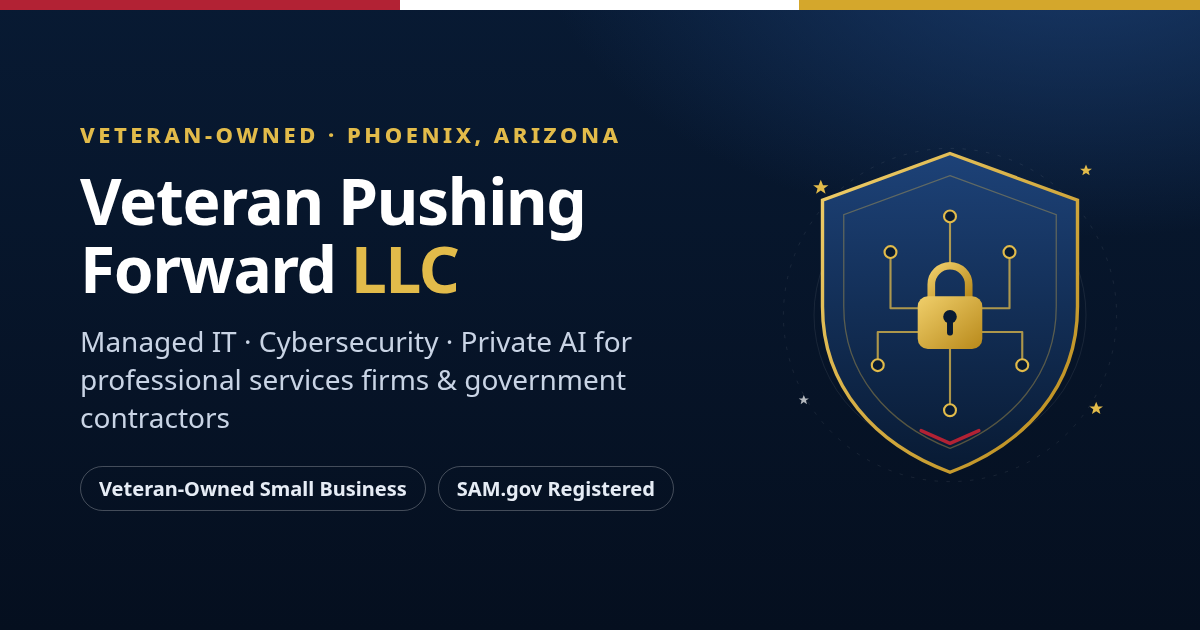
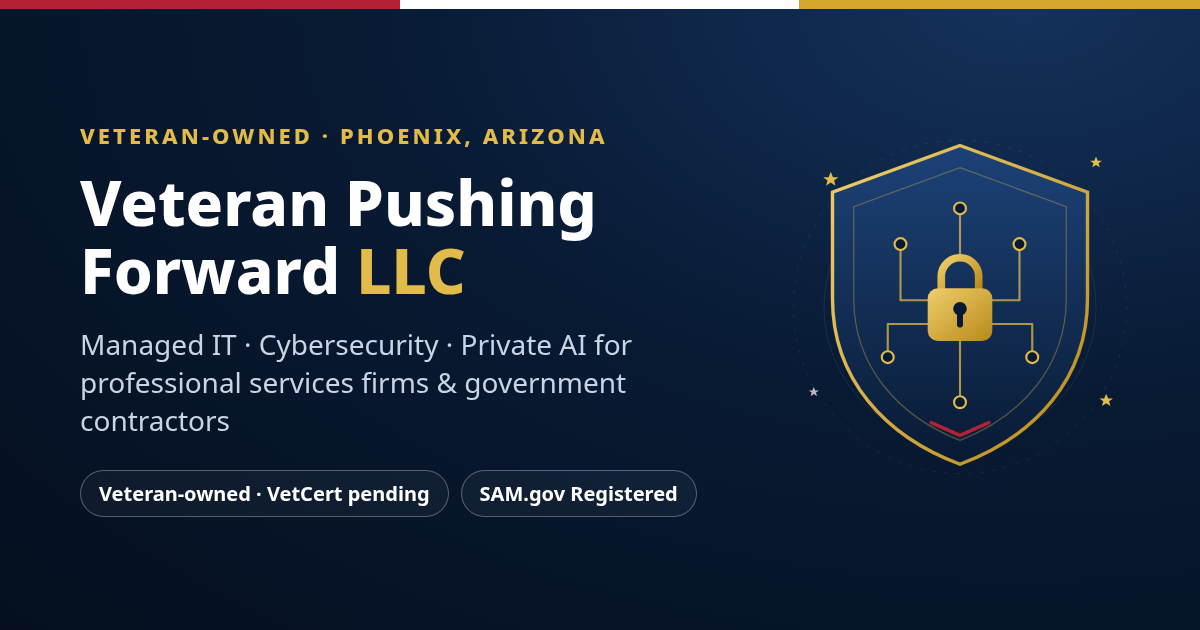
Regenerate OG image (VetCert pending); add tax-firms OG image

diff --git a/tax-firms.html b/tax-firms.html
@@ -17,16 +17,16 @@
   <meta property="og:title" content="Written Information Security Plan for Tax &amp; CPA Firms, Done in Two Weeks | Veteran Pushing Forward">
   <meta property="og:description" content="A plain-English written information security plan (WISP) for tax and CPA firms, built to address the FTC Safeguards Rule and IRS Publication 4557. Done in two weeks. $950 founding price.">
   <meta property="og:url" content="https://veteranpushingforward.com/tax-firms.html">
-  <meta property="og:image" content="https://veteranpushingforward.com/assets/img/og-image.png">
+  <meta property="og:image" content="https://veteranpushingforward.com/assets/img/og-tax-firms.png">
   <meta property="og:image:width" content="1200">
   <meta property="og:image:height" content="630">
-  <meta property="og:image:alt" content="Veteran Pushing Forward LLC — Managed IT, Cybersecurity and Private AI. Veteran-owned (SBA VetCert application pending), Phoenix, Arizona.">
+  <meta property="og:image:alt" content="Your firm’s written security plan, done in two weeks. Built to address the FTC Safeguards Rule and IRS Pub 4557. $950 founding price. Veteran-owned, Phoenix, Arizona.">
   <meta property="og:locale" content="en_US">
   <meta name="twitter:card" content="summary_large_image">
   <meta name="twitter:title" content="Written Information Security Plan for Tax &amp; CPA Firms, Done in Two Weeks | Veteran Pushing Forward">
   <meta name="twitter:description" content="A plain-English written information security plan (WISP) for tax and CPA firms, built to address the FTC Safeguards Rule and IRS Publication 4557. Done in two weeks. $950 founding price.">
   <meta name="twitter:url" content="https://veteranpushingforward.com/tax-firms.html">
-  <meta name="twitter:image" content="https://veteranpushingforward.com/assets/img/og-image.png">
+  <meta name="twitter:image" content="https://veteranpushingforward.com/assets/img/og-tax-firms.png">
 
   <link rel="stylesheet" href="/assets/css/styles.css">
 </head>
